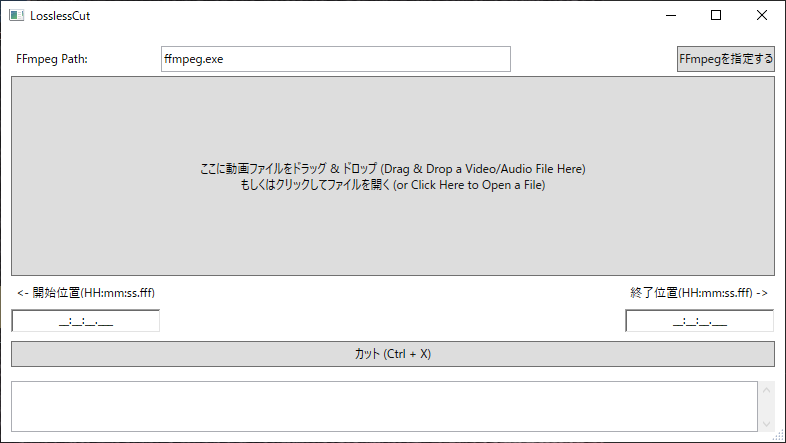
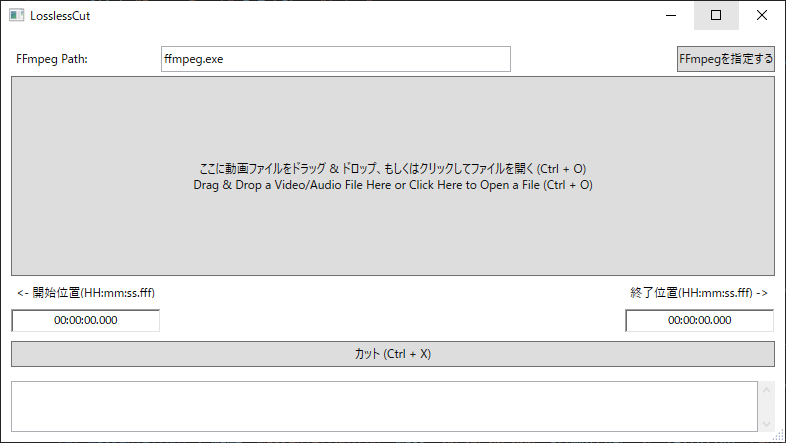
update: README

diff --git a/MainWindow.xaml b/MainWindow.xaml
@@ -43,11 +43,11 @@
                 Width="{Binding ElementName=Container,Path=ActualWidth}"
                 Grid.Row="1" Grid.Column="0" Grid.ColumnSpan="3"
                 AllowDrop="True" Drop="InputFile_Drop" DragOver="InputFile_DragOver"
-                Click="BrowseInput"
+                Click="BrowseInput" IsTabStop="false"
                 x:Name="ButtonInput">
             <TextBlock x:Name="TextBlockInput" TextAlignment="Center">
-                ここに動画ファイルをドラッグ &amp; ドロップ (Drag &amp; Drop a Video/Audio File Here)<LineBreak/>
-                もしくはクリックしてファイルを開く (or Click Here to Open a File)
+                ここに動画ファイルをドラッグ &amp; ドロップ、もしくはクリックしてファイルを開く (Ctrl + O)<LineBreak />
+                Drag &amp; Drop a Video/Audio File Here or Click Here to Open a File (Ctrl + O)
             </TextBlock>
         </Button>
 
@@ -61,12 +61,12 @@
         <WindowsFormsHost Height="24" HorizontalAlignment="Center" VerticalAlignment="Center" Name="TextBoxStart"
                 Width="150"
                 Grid.Row="3" Grid.Column="0">
-            <wf:MaskedTextBox x:Name="MaskedTextBoxStart" Mask="00:00:00.000" TextAlign="Center"/>
+            <wf:MaskedTextBox x:Name="MaskedTextBoxStart" Mask="00:00:00.000" PromptChar="0" TextAlign="Center"/>
         </WindowsFormsHost>
         <WindowsFormsHost Height="24" HorizontalAlignment="Center" VerticalAlignment="Center" Name="TextBoxEnd"
                 Width="150"
                 Grid.Row="3" Grid.Column="2">
-            <wf:MaskedTextBox x:Name="MaskedTextBoxEnd" Mask="00:00:00.000" TextAlign="Center"/>
+            <wf:MaskedTextBox x:Name="MaskedTextBoxEnd" Mask="00:00:00.000" PromptChar="0" TextAlign="Center"/>
         </WindowsFormsHost>
 
         <Button Height="26" HorizontalAlignment="Center" VerticalAlignment="Center" Name="ButtonCut"

diff --git a/README.md b/README.md
@@ -11,8 +11,9 @@ cutting a video/audio file without loss and encoding time.
 3. Press `[カット (Ctrl + X)]` Button
 
 ## Tips
-You can move your cursor with the `Tab` key between InputFile Button, StartTime Form, EndTime Form, and Cut Button.  
+You can move your cursor with the `Tab` key between StartTime Form, EndTime Form, and Cut Button.  
 `Ctrl + X` shortcut key acts as Cut Button.
 
 ## Settings
-1. Set Windows "PATH" Environment Variable for `ffmpeg.exe` or to Click `[FFmpegを指定する]` to Set the FFmpeg Path Locally
+1. Download FFmpeg from [https://ffmpeg.org/](https://ffmpeg.org/) and Install it
+2. Set Windows "PATH" Environment Variable for `ffmpeg.exe` or to Click `[FFmpegを指定する]` to Set the FFmpeg Path Locally
